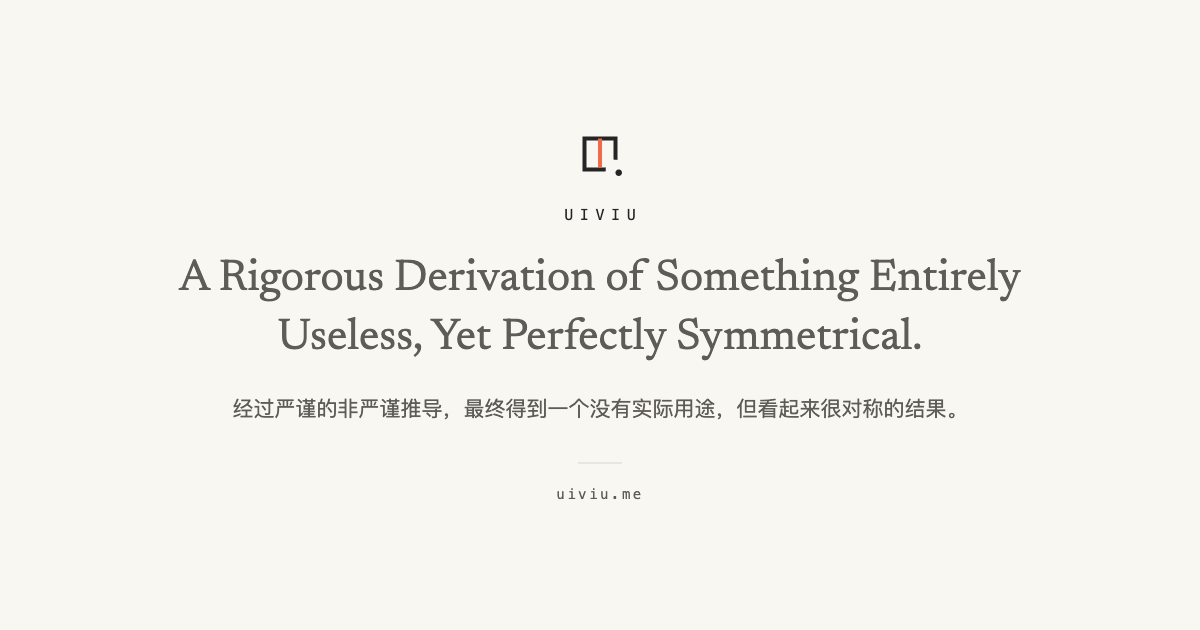
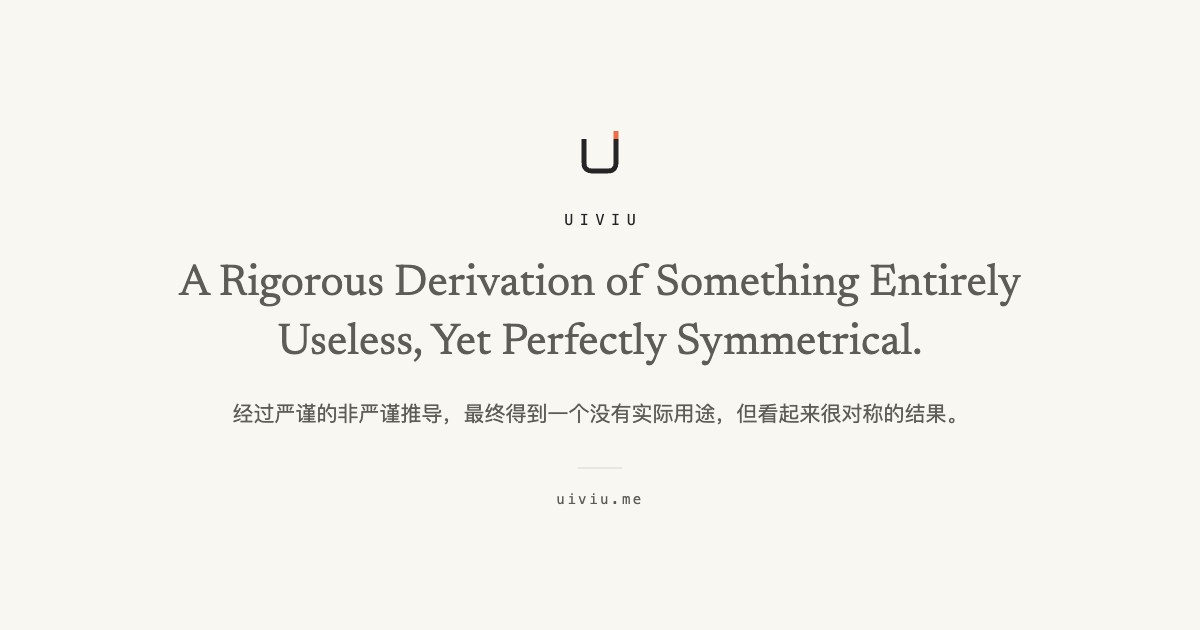
feat(brand): replace the mark with a U that escapes, add the wordmark
The mark is now a plain geometric U in ink whose right stem simply continues
four units upward in signal red — one deviation, no gradients, no second notch.
The wordmark (public/brand/uiviu-wordmark.svg) repeats the same stroke language
across U I V I U and the escape again on the last U; it ships as a source asset
and is deliberately not placed anywhere in the site chrome.

- public/favicon.svg is the canonical mark, transparent, no background rect
- src/components/BrandMark.astro inlines the identical geometry so pages can
  size it; tests/unit/brand-mark.test.ts fails when the two drift apart
- favicon.ico regenerated (16/32/48, transparent); apple-touch-icon (180) and
  icon-512 stay paper-backed because iOS/Android composite transparency black;
  og.png regenerated with the new mark
- 404 shows the mark at 32px above the field note; empty states use it at 28px
  through the shared component; nothing else displays it
- design notes document the geometry, the single-deviation rule, the usage
  whitelist, forbidden placements and the dark-tab-strip limitation
- homepage hero, article list, navigation, sidebar and footer are untouched

Verified: pnpm verify exits 0 (9 pages, 48 tests, 0 diagnostics); in a browser
the hero contains zero svg elements, the 404 and every empty state render the
mark with its red stroke, /favicon.svg, /favicon.ico, /apple-touch-icon.png,
/icon-512.png, /og.png and /brand/uiviu-wordmark.svg all return 200 with correct
[…]

diff --git a/tests/unit/brand-mark.test.ts b/tests/unit/brand-mark.test.ts
@@ -1,0 +1,33 @@
+import { readFileSync } from "node:fs";
+
+import { describe, expect, it } from "vitest";
+
+const favicon = readFileSync("public/favicon.svg", "utf8");
+const component = readFileSync("src/components/BrandMark.astro", "utf8");
+const wordmark = readFileSync("public/brand/uiviu-wordmark.svg", "utf8");
+
+const paths = (svg: string) =>
+  [...svg.matchAll(/<path[^>]*d="([^"]+)"/g)].map((match) => match[1]);
+
+describe("brand mark", () => {
+  it("keeps the inline component in sync with the favicon", () => {
+    expect(paths(component)).toEqual(paths(favicon));
+  });
+
+  it("draws the U in ink and the escape in signal red", () => {
+    expect(favicon).toContain('stroke="#252525"');
+    expect(favicon).toContain('stroke="#FF623D"');
+  });
+
+  it("keeps the favicon background transparent", () => {
+    expect(favicon).not.toMatch(/<rect/);
+    expect(favicon).not.toContain("fff");
+    expect(favicon).not.toContain("f8f7f2");
+  });
+
+  it("ships a wordmark with the same ink and accent", () => {
+    expect(paths(wordmark)).toHaveLength(6);
+    expect(wordmark).toContain('stroke="#252525"');
+    expect(wordmark).toContain('stroke="#FF623D"');
+  });
+});

diff --git a/docs/agents/design.md b/docs/agents/design.md
@@ -130,19 +130,39 @@ When in doubt, remove a line before adding one.
   it materially helps screen-reader pronunciation.
 - Keep text contrast at 4.5:1 or better for body copy.
 
-## Mark and icons
+## Mark and wordmark
 
-The mark is a symmetric frame with one corner missing, a signal-coloured axis,
-and — from 48px up — the piece that fell off, sitting just outside the frame.
-It is deliberately deadpan: the structure is not broken, it was simply not put
-back. Do not add gloss, gradients, rounded corners or a second accent.
+The mark is a plain geometric U (ink `#252525`, stroke 2.5 on a 32 grid, ~7.8%
+of the box) whose right stem escapes four units upward in signal `#FF623D`.
+One deviation, nothing else: no second notch, dot, gradient or glow. Read at
+16px it is a U with a small red tick; at 48px the tick reads as the stem
+continuing when it should not.
 
-- `public/favicon.svg` — 16/32px version: frame + axis + corner gap, no loose
-  piece (the dot turns into noise below 48px).
-- `public/favicon.ico` — 16 and 32 from that version, 48 with the piece.
-- `public/apple-touch-icon.png` (180) and `public/icon-512.png` — full version.
-- `public/og.png` — 1200×630 default share card: mark, wordmark, English
-  headline, Chinese subtitle, domain, on Paper.
+The wordmark (`public/brand/uiviu-wordmark.svg`) draws `UIVIU` with the same
+stroke language (3 on a 32-tall grid) and repeats the escape at the end of the
+last U. It is a shipped source asset for print, social and future use — the
+site itself keeps the text wordmark in the header and does **not** display this
+SVG anywhere.
+
+- `public/favicon.svg` is the canonical mark (transparent, no background rect).
+- `src/components/BrandMark.astro` inlines the same geometry so pages can size
+  it; `tests/unit/brand-mark.test.ts` fails if the two drift apart.
+- `public/favicon.ico` carries 16/32/48 (transparent); `apple-touch-icon.png`
+  (180) and `icon-512.png` are paper-backed tiles because iOS and Android
+  composite transparency as black.
+- `public/og.png` is the 1200×630 share card (mark, wordmark, headline,
+  subtitle, domain).
+
+Usage is deliberately narrow: favicon, the 404 field note (32px), and empty
+states (28px). Do not put the mark or the wordmark in the hero, the header, the
+article list, next to headings, in a floating control or in a per-page brand
+block, and do not animate it. `public/brand/uiviu-mark.svg` is intentionally
+absent: the favicon is the mark source, and copying it would only create a
+second file to keep in sync.
+
+Limitation: the SVG is ink-on-transparent, so it is low contrast on a dark
+browser tab strip. The rules forbid baking a background into the icon, so this
+is accepted and documented rather than solved with a paper block.
 
 ## Known gaps
 

diff --git a/README.md b/README.md
@@ -59,7 +59,8 @@ src/
   pages/        index, notes, archive, search, about, 404,
                 categories/[category], posts/[...slug], rss.xml
   styles/       global.css — Tailwind import and @theme tokens
-public/         favicon.svg, favicon.ico, apple-touch-icon.png, icon-512.png, og.png
+public/         favicon.svg, favicon.ico, apple-touch-icon.png, icon-512.png,
+                og.png, brand/uiviu-wordmark.svg
 tests/unit/     Vitest unit tests
 docs/agents/    Notes for AI agents: design, content, workflow
 ```

diff --git a/AGENTS.md b/AGENTS.md
@@ -66,7 +66,8 @@ src/
 tests/unit/     Vitest unit tests
 docs/agents/    Agent-facing documentation
 wrangler.jsonc  Cloudflare Workers static assets config (dist/, 404-page)
-public/         favicon.svg, favicon.ico, apple-touch-icon.png, icon-512.png, og.png
+public/         favicon.svg (mark source), favicon.ico, apple-touch-icon.png,
+                icon-512.png, og.png, brand/uiviu-wordmark.svg
 ```
 
 ## Commands
